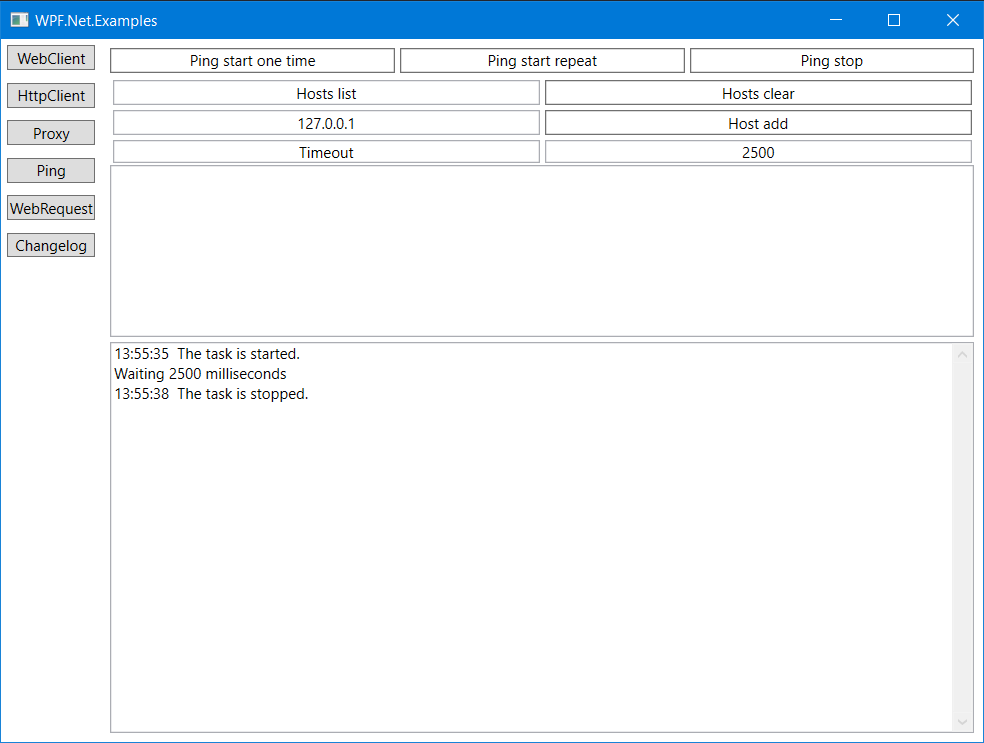
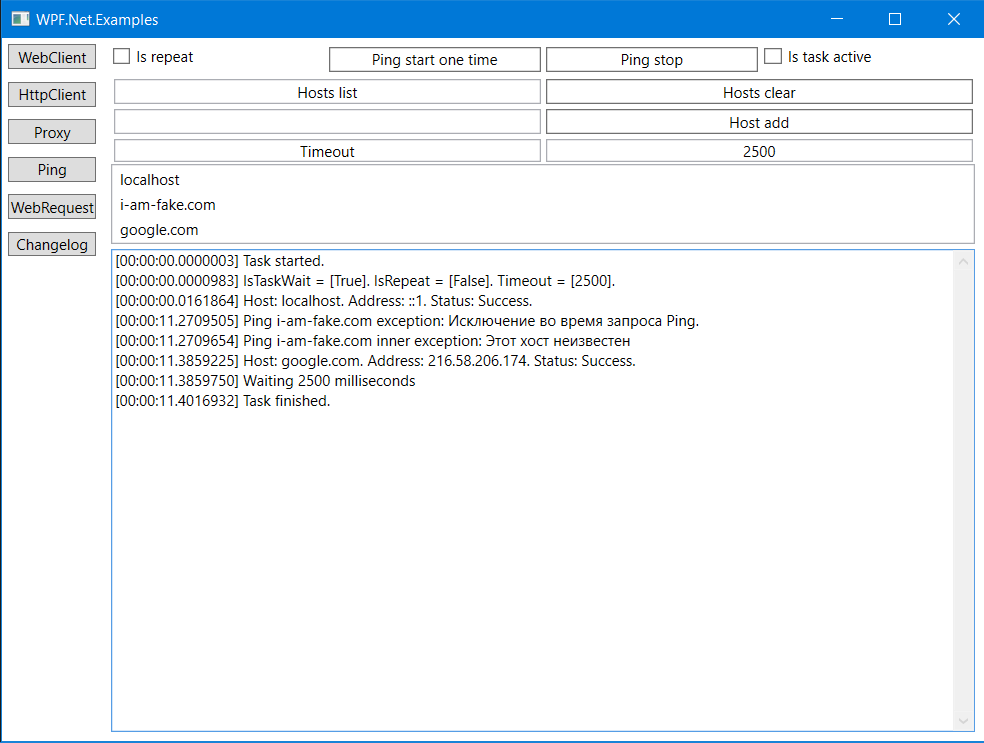
Moved PingEntity to nuget package Net.Utils (https://www.nuget.org/packages/Net.Utils/)

Changed region(s): [[0.0, 0.0, 1.0, 1.0], [0.8841, 0.0, 0.9146, 0.031]]

diff --git a/WPF.Net.Examples/Views/PagePing.xaml b/WPF.Net.Examples/Views/PagePing.xaml
@@ -11,23 +11,26 @@
     <Grid>
         <Grid.RowDefinitions>
             <RowDefinition Height="Auto"></RowDefinition>
-            <RowDefinition Height="4*"></RowDefinition>
-            <RowDefinition Height="6*"></RowDefinition>
+            <RowDefinition Height="Auto"></RowDefinition>
+            <RowDefinition Height="*"></RowDefinition>
         </Grid.RowDefinitions>
         <Grid.ColumnDefinitions>
-            <ColumnDefinition Width="1*"></ColumnDefinition>
-            <ColumnDefinition Width="1*"></ColumnDefinition>
-            <ColumnDefinition Width="1*"></ColumnDefinition>
+            <ColumnDefinition Width="*"></ColumnDefinition>
+            <ColumnDefinition Width="*"></ColumnDefinition>
+            <ColumnDefinition Width="*"></ColumnDefinition>
+            <ColumnDefinition Width="*"></ColumnDefinition>
         </Grid.ColumnDefinitions>
 
-        <Button Grid.Row="0" Grid.Column="0" Content="Ping start one time" Background="Transparent" Margin="2" 
+        <CheckBox Grid.Row="0" Grid.Column="0" Content="Is repeat" Background="Transparent" Margin="2" 
+                  IsChecked="{Binding Path=Ping.IsRepeat, Mode=TwoWay, IsAsync=True}"></CheckBox>
+        <CheckBox Name="fieldIsTaskFinished" Grid.Row="0" Grid.Column="3" Content="Is task active" Background="Transparent" Margin="2" 
+                  IsChecked="{Binding Path=Ping.IsTaskActive, Mode=OneWay, IsAsync=True}"></CheckBox>
+        <Button Grid.Row="0" Grid.Column="1" Content="Ping start one time" Background="Transparent" Margin="2" 
                 Click="ButtonPingStartOne_OnClick"></Button>
-        <Button Grid.Row="0" Grid.Column="1" Content="Ping start repeat" Background="Transparent" Margin="2" 
-                Click="ButtonPingStartRepeat_OnClick"></Button>
         <Button Name="buttonPingStop" Grid.Row="0" Grid.Column="2" Content="Ping stop" 
                 Background="Transparent" Click="ButtonPingStop_OnClick" Margin="2"></Button>
 
-        <Grid Grid.Row="1" Grid.Column="0" Grid.ColumnSpan="3" Margin="2" >
+        <Grid Grid.Row="1" Grid.Column="0" Grid.ColumnSpan="4" Margin="2" >
             <Grid.RowDefinitions>
                 <RowDefinition Height="Auto"></RowDefinition>
                 <RowDefinition Height="Auto"></RowDefinition>
@@ -43,7 +46,7 @@
             <Button Name="buttonHostsClear" Grid.Row="0" Grid.Column="1" Background="Transparent" 
                     Content="Hosts clear" Click="ButtonHostsClear_OnClick" Margin="2"></Button>
             <TextBox Name="fieldIp" Grid.Row="1" Grid.Column="0" Background="Transparent" 
-                     Text="127.0.0.1" HorizontalContentAlignment="Center" VerticalContentAlignment="Center"
+                     Text="localhost" HorizontalContentAlignment="Center" VerticalContentAlignment="Center"
                      Margin="2"></TextBox>
             <Button Name="buttonHostAdd" Grid.Row="1" Grid.Column="1" Background="Transparent" 
                     Content="Host add" Click="ButtonHostAdd_OnClick" Margin="2"></Button>
@@ -55,7 +58,7 @@
                      HorizontalContentAlignment="Center" VerticalContentAlignment="Center" Margin="2"></TextBox>
         </Grid>
         
-        <TextBox Name="fieldOut" Grid.Row="2" Grid.Column="0" Grid.ColumnSpan="3" Margin="2"
+        <TextBox Name="fieldOut" Grid.Row="2" Grid.Column="0" Grid.ColumnSpan="4" Margin="2"
                  VerticalScrollBarVisibility="Visible" Background="Transparent" 
                  IsReadOnly="True" ></TextBox>
     </Grid>

diff --git a/WPF.Net.Examples/Views/PageHttpClient.xaml b/WPF.Net.Examples/Views/PageHttpClient.xaml
@@ -35,9 +35,9 @@
         <CheckBox Margin="5" Grid.Column="1" Grid.Row="2" Content="Use task wait"
                  VerticalAlignment="Center" HorizontalAlignment="Center" Background="Transparent" 
                  IsChecked="{Binding Path=HttpClient.IsTaskWait, Mode=TwoWay, IsAsync=True}"></CheckBox>
-        <CheckBox Name="fieldIsTaskFinished" Margin="5" Grid.Column="2" Grid.Row="2" Content="Task is finished" IsEnabled="False"
+        <CheckBox Name="fieldIsTaskFinished" Margin="5" Grid.Column="2" Grid.Row="2" Content="Task is active" IsEnabled="False"
                  VerticalAlignment="Center" HorizontalAlignment="Center" Background="Transparent" 
-                 IsChecked="{Binding Path=HttpClient.IsTaskFinished, Mode=OneWay, IsAsync=True}"></CheckBox>
+                 IsChecked="{Binding Path=HttpClient.IsTaskActive, Mode=OneWay, IsAsync=True}"></CheckBox>
         <CheckBox Margin="5" Grid.Column="0" Grid.Row="1" Content="Use proxy"
                  VerticalAlignment="Center" HorizontalAlignment="Center" Background="Transparent" 
                  IsChecked="{Binding Path=Proxy.Use, Mode=TwoWay, IsAsync=True}"></CheckBox>

diff --git a/WPF.Net.Examples/Views/PagePing.xaml.cs b/WPF.Net.Examples/Views/PagePing.xaml.cs
@@ -30,19 +30,23 @@ namespace WPF.Net.Examples.Views
 
         private void ButtonHostAdd_OnClick(object sender, RoutedEventArgs e)
         {
-            var ip = Utils.InvokeTextBox.GetText(fieldIp);
-            Utils.InvokeTextBox.Clear(fieldIp);
-            Utils.InvokeListBox.ItemAdd(listBoxHosts, ip);
+            var host = Utils.InvokeTextBox.GetText(fieldIp);
+            if (!string.IsNullOrEmpty(host))
+            {
+                Utils.InvokeTextBox.Clear(fieldIp);
+                Utils.InvokeListBox.ItemAdd(listBoxHosts, host);
+            }
         }
 
         private void ButtonPingStartOne_OnClick(object sender, RoutedEventArgs e)
         {
-            _appSet.Ping.OpenTask(false, listBoxHosts, fieldOut);
-        }
-
-        private void ButtonPingStartRepeat_OnClick(object sender, RoutedEventArgs e)
-        {
-            _appSet.Ping.OpenTask(true, listBoxHosts, fieldOut);
+            foreach (var host in listBoxHosts.Items)
+            {
+                _appSet.Ping.Hosts.Add(host.ToString(), false);
+            }
+            _appSet.Ping.OpenTask();
+            fieldIsTaskFinished.IsChecked = _appSet.HttpClient.IsTaskActive;
+            fieldOut.Text = _appSet.Ping.Status;
         }
 
         private void ButtonPingStop_OnClick(object sender, RoutedEventArgs e)

diff --git a/WPF.Net.Examples/Views/PageHttpClient.xaml.cs b/WPF.Net.Examples/Views/PageHttpClient.xaml.cs
@@ -30,7 +30,7 @@ namespace WPF.Net.Examples.Views
         private void ButtonHttpGet_OnClick(object sender, RoutedEventArgs e)
         {
             _appSet.HttpClient.OpenTask(_appSet.Proxy);
-            fieldIsTaskFinished.IsChecked = _appSet.HttpClient.IsTaskFinished;
+            fieldIsTaskFinished.IsChecked = _appSet.HttpClient.IsTaskActive;
             fieldStatus.Text = _appSet.HttpClient.Status;
             fieldContent.Text = _appSet.HttpClient.Content;
         }

diff --git a/WPF.Net.Examples/Properties/AssemblyInfo.cs b/WPF.Net.Examples/Properties/AssemblyInfo.cs
@@ -49,5 +49,5 @@ using System.Windows;
 // You can specify all the values or you can default the Build and Revision Numbers
 // by using the '*' as shown below:
 // [assembly: AssemblyVersion("1.0.*")]
-[assembly: AssemblyVersion("0.2.65.0")]
-[assembly: AssemblyFileVersion("0.2.65.0")]
+[assembly: AssemblyVersion("0.2.67.0")]
+[assembly: AssemblyFileVersion("0.2.67.0")]

diff --git a/CHANGELOG.md b/CHANGELOG.md
@@ -6,7 +6,7 @@ and this project adheres to [Semantic Versioning](https://semver.org/spec/v2.0.0
 
 ## [Unreleased]
 
-## [0.2.65] - 2020-11-08
+## [0.2.67] - 2020-11-08
 ### Changed
 - Views.PageChangelog
 - Views.PageHttpClient
@@ -15,6 +15,7 @@ and this project adheres to [Semantic Versioning](https://semver.org/spec/v2.0.0
 - Views.PageWebClient
 - Views.PageWebRequest
 - Views.WindowMain
+- Moved PingEntity to nuget package Net.Utils (https://www.nuget.org/packages/Net.Utils/)
 
 ## [0.2.62] - 2020-11-07
 ### Changed
